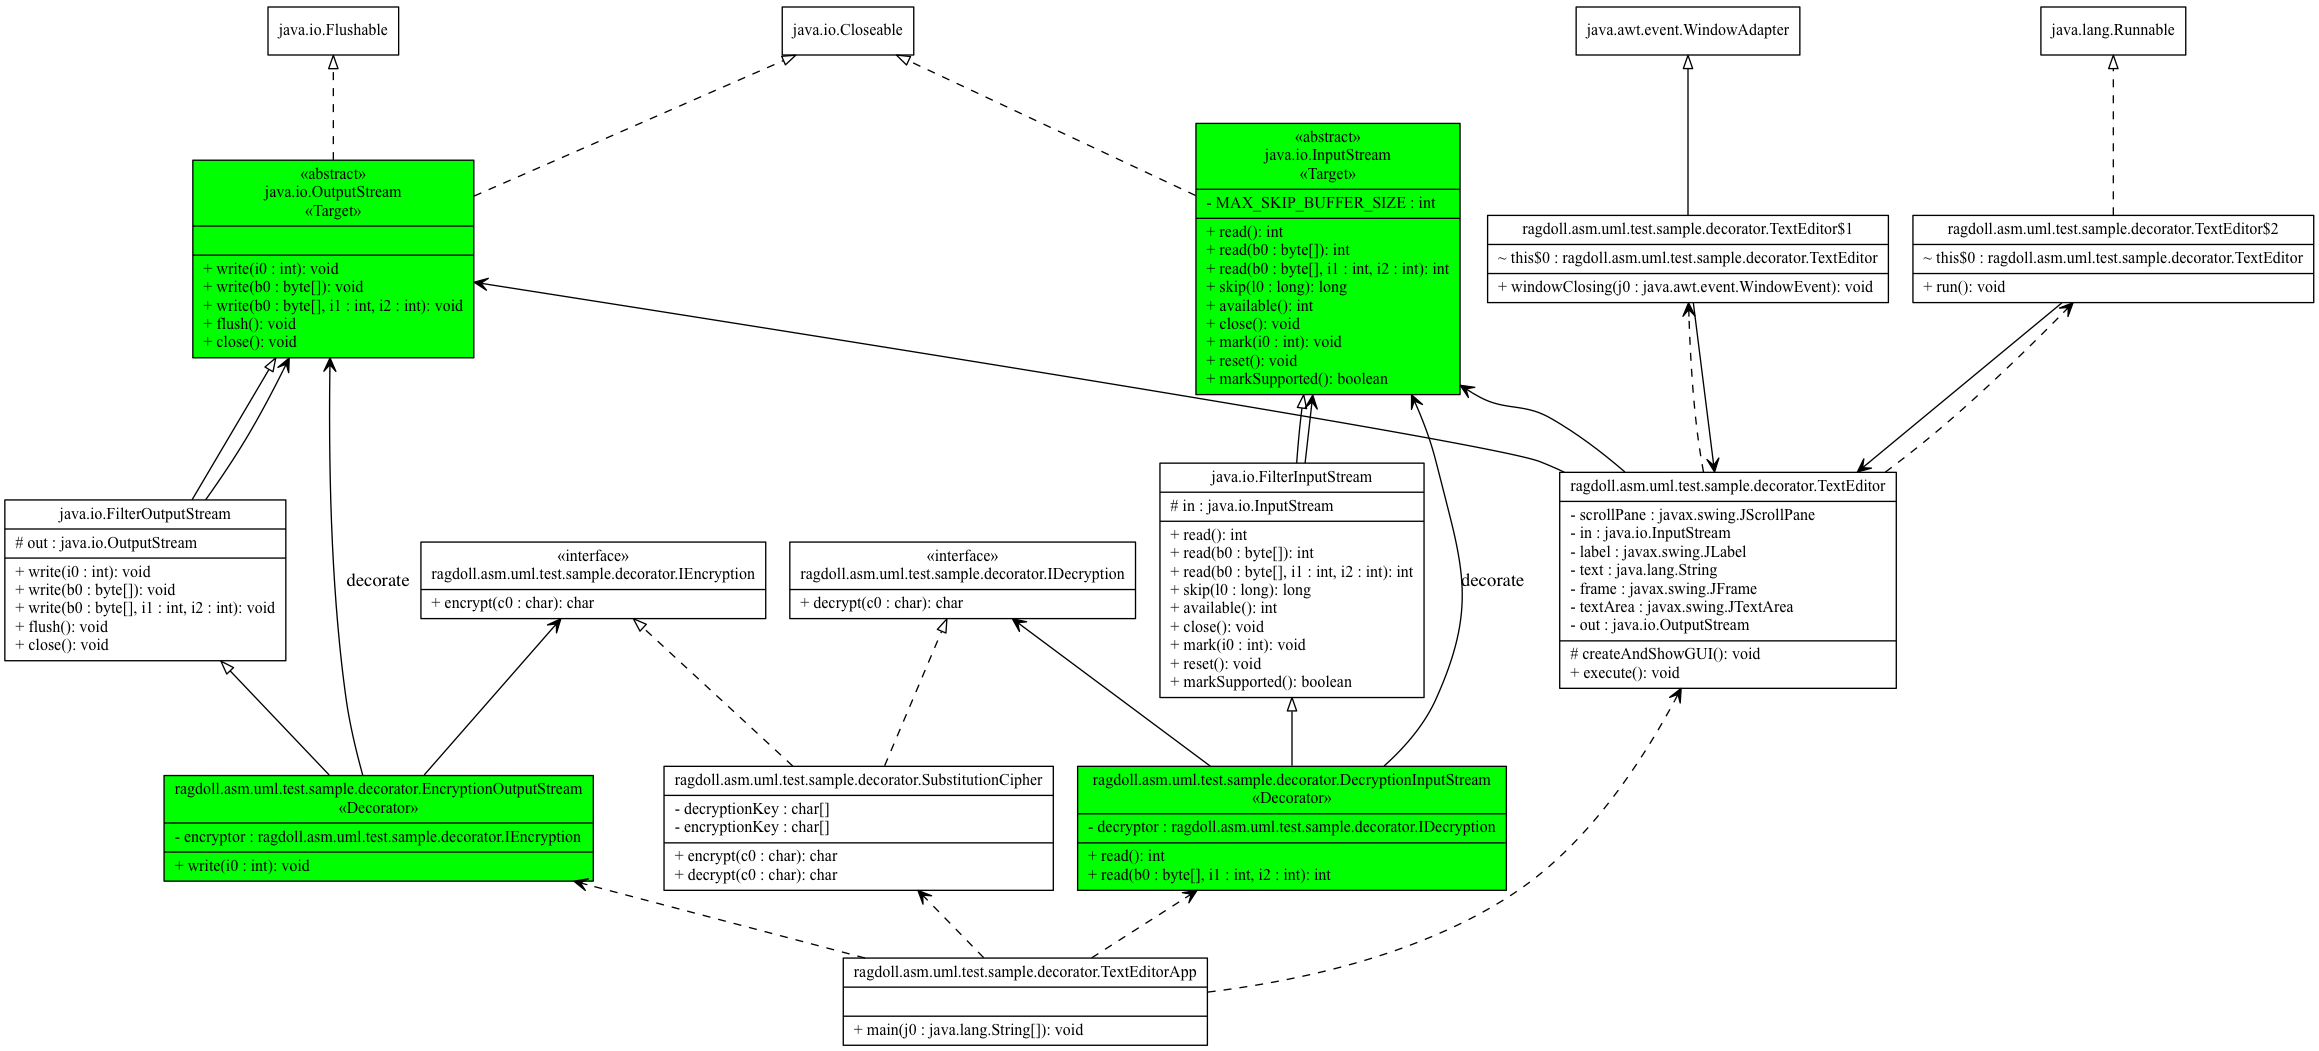
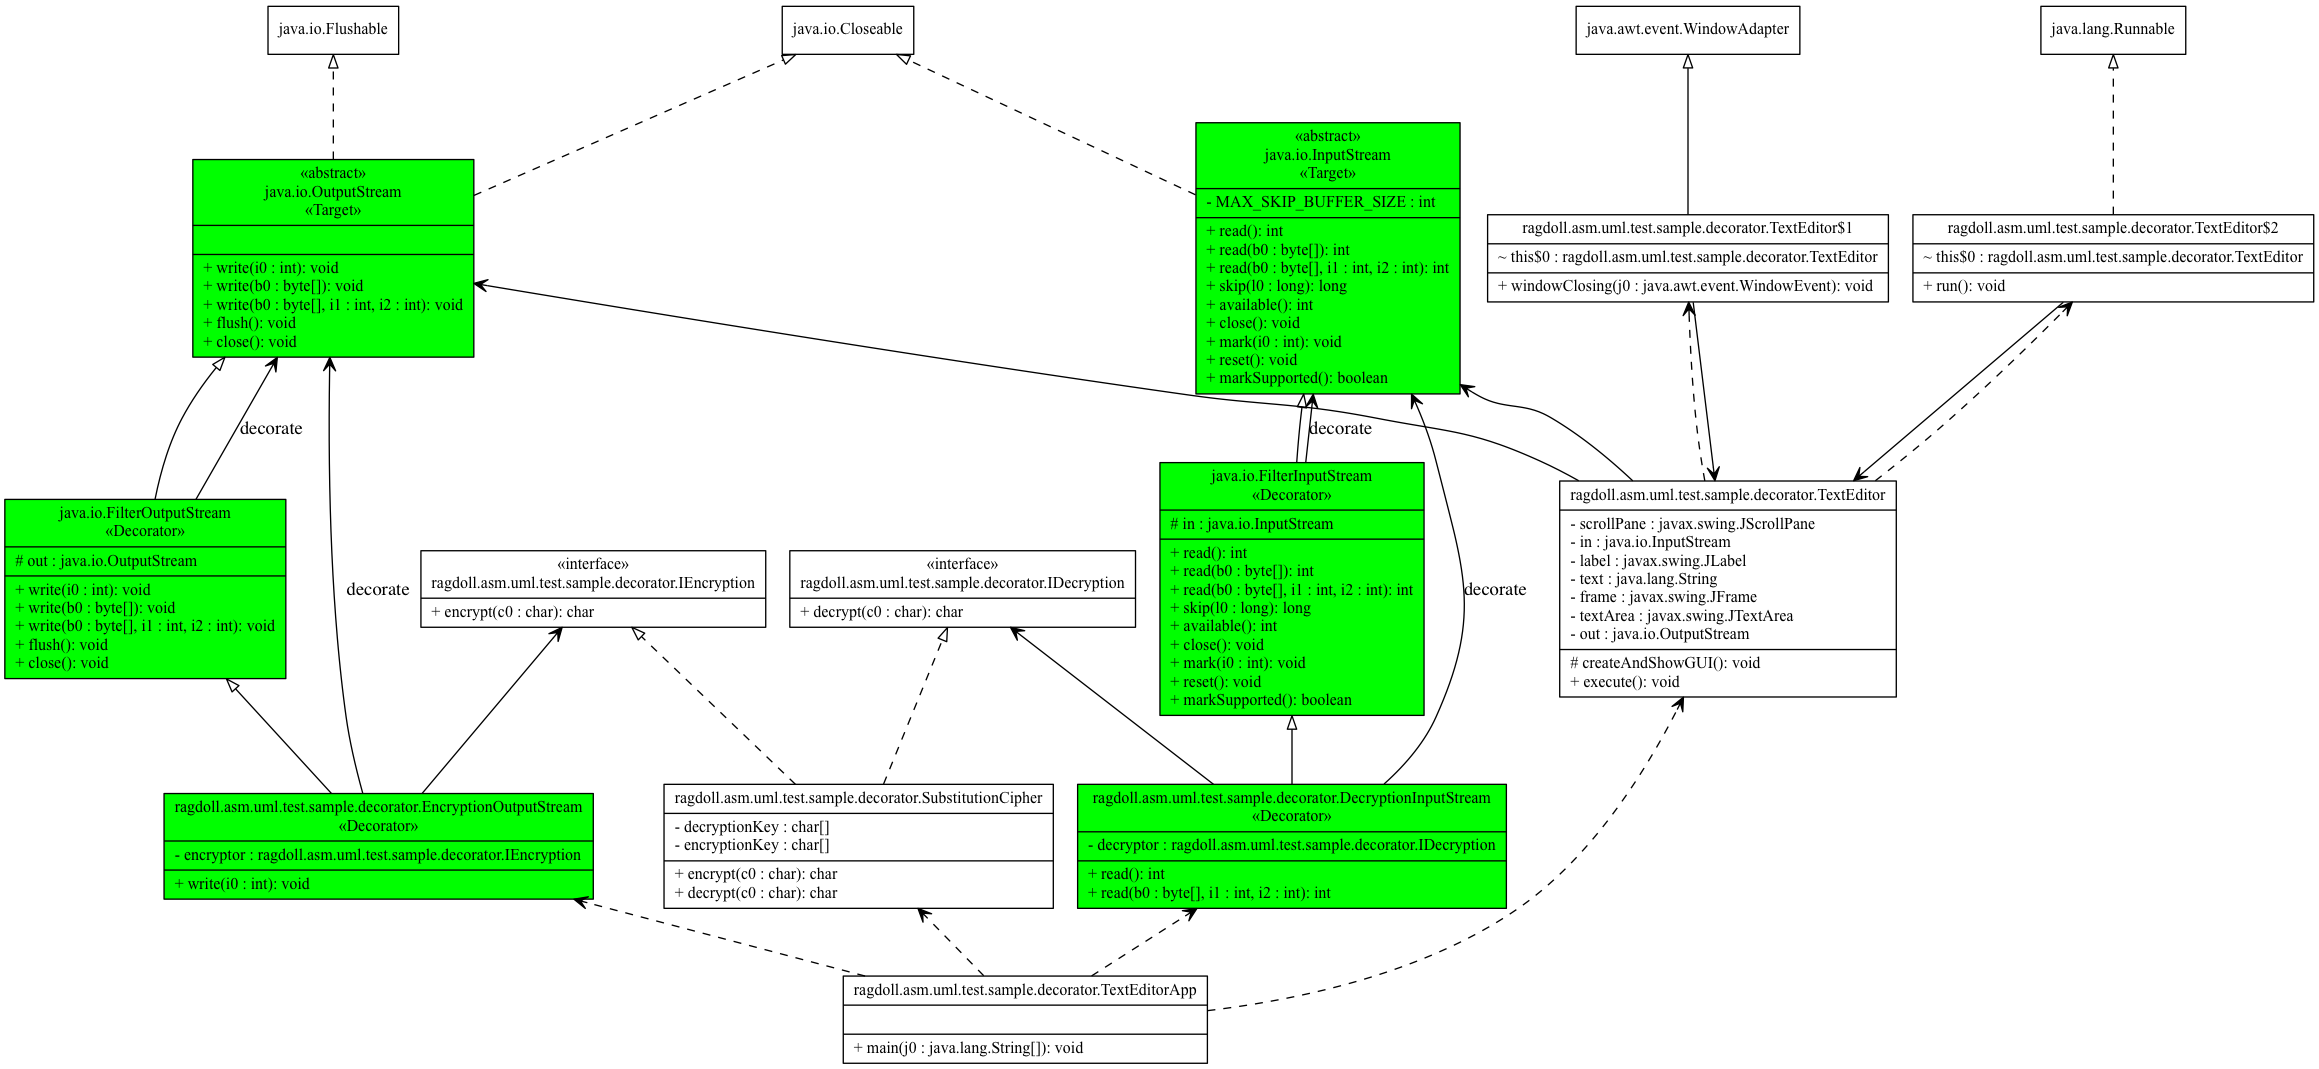
[team] Fixed issue related to Milestone 5

diff --git a/test/ragdoll/code/visitor/impl/test/GVOSTextEditDecoratorTest.java b/test/ragdoll/code/visitor/impl/test/GVOSTextEditDecoratorTest.java
@@ -108,6 +108,43 @@ public class GVOSTextEditDecoratorTest {
 		gvOS = new GVOutputStream();
 		sb = new StringBuffer();
 	}
+	
+	@Test
+	public void testFilterISDecorator(){
+		IClass klass = iClasses.get("java.io.FilterInputStream");
+		klass.accept(gvOS);
+		
+		appendBufferLine("\"java.io.FilterInputStream\" [");
+		appendBufferLine("color=black");
+		appendBufferLine("fillcolor=\"green\"");
+		appendBufferLine("style=filled");
+		appendBufferLine("label = \"{java.io.FilterInputStream");
+		appendBufferLine("«Decorator»\\n|# in : java.io.InputStream\\l|+ read(): int\\l+ read(b0 : byte[]): int\\l+ read(b0 : byte[], i1 : int, i2 : int): int\\l+ skip(l0 : long): long\\l+ available(): int\\l+ close(): void\\l+ mark(i0 : int): void\\l+ reset(): void\\l+ markSupported(): boolean\\l}\"");
+		appendBufferLine("]");
+		appendBufferLine("edge [");
+		appendBufferLine("style = \"dashed\"");
+		appendBufferLine("arrowhead = \"empty\"");
+		appendBufferLine("]");
+		appendBufferLine("edge [");
+		appendBufferLine("style = \"solid\"");
+		appendBufferLine("arrowhead = \"empty\"");
+		appendBufferLine("]");
+		appendBufferLine("\"java.io.FilterInputStream\" -> \"java.io.InputStream\"");
+		appendBufferLine("edge [");
+		appendBufferLine("style = \"dashed\"");
+		appendBufferLine("arrowhead = \"vee\"");
+		appendBufferLine("]");
+		appendBufferLine("edge [");
+		appendBufferLine("style = \"solid\"");
+		appendBufferLine("arrowhead = \"vee\"");
+		appendBufferLine("label = \"decorate\"");
+		appendBufferLine("]");
+		appendBufferLine("\"java.io.FilterInputStream\" -> \"java.io.InputStream\"");
+		appendBufferLine("edge [label=\" \"]");
+
+		
+		assertEquals(sb.toString(), gvOS.toString());
+	}
 
 	@Test
 	public void testEncryptionOSDecorator() {
@@ -152,7 +189,7 @@ public class GVOSTextEditDecoratorTest {
 	}
 	
 	@Test
-	public void testDecryptionOSDecorator() {
+	public void testDecryptionISDecorator() {
 		IClass klass = iClasses.get("ragdoll.asm.uml.test.sample.decorator.DecryptionInputStream");
 		klass.accept(gvOS);
 		appendBufferLine("\"ragdoll.asm.uml.test.sample.decorator.DecryptionInputStream\" [");

diff --git a/src/ragdoll/app/pattern/DecoratorPattern.java b/src/ragdoll/app/pattern/DecoratorPattern.java
@@ -10,6 +10,8 @@ import ragdoll.code.uml.pattern.APatternDetector;
 import ragdoll.code.uml.pattern.Pattern;
 
 public class DecoratorPattern extends APatternDetector {
+	
+	private static final int UNDECORATED_METHOD_THRESHOLD = 1;
 
 	public DecoratorPattern(IClassInfo classInfo) {
 		super(classInfo);
@@ -28,18 +30,20 @@ public class DecoratorPattern extends APatternDetector {
 	}
 
 	public List<Pattern> getDecoratorPatterns(String className) {
-		if (className.equals("ragdoll.asm.uml.test.sample.decorator.EncryptionOutputStream")) {
+//		if (className.equals("java.io.FilterInputStream")) {
 //			System.out.println("HIT");
-		}
+//		}
 		List<Pattern> results = new ArrayList<>();
 		List<String> components = getComponentList(className);
 		for (String component : components) {
-			boolean isDecorated = true;
+			int unDecorationCount = 0;
 			List<IMethod> overriddenMethods = classInfo.getOverriddenMethods(className, component);
 			for(IMethod overriddenMethod : overriddenMethods){
-				isDecorated = !overriddenMethod.hasSameNameMethodCall();
+				if (!overriddenMethod.hasSameNameMethodCall()) {
+					unDecorationCount++;
+				}
 			}
-			if (isDecorated) {
+			if (unDecorationCount <= UNDECORATED_METHOD_THRESHOLD) {
 				Pattern pattern = new Pattern();
 				pattern.addRole(component, "Target");
 				pattern.addRole(className, "Decorator");

diff --git a/src/ragdoll/code/uml/impl/Klass.java b/src/ragdoll/code/uml/impl/Klass.java
@@ -222,7 +222,7 @@ public class Klass implements IClass {
 		List<IMethod> superMethodList = superClass.getMethodList();
 		for (IMethod method : methodList) {
 			for (IMethod superMethod : superMethodList) {
-				if (superMethod.compareToMethod(method)) {
+				if (superMethod.compareToMethod(method) && !superMethod.getMethodName().equals("<init>")) {
 					overridedMethods.add(method);
 				}
 			}
